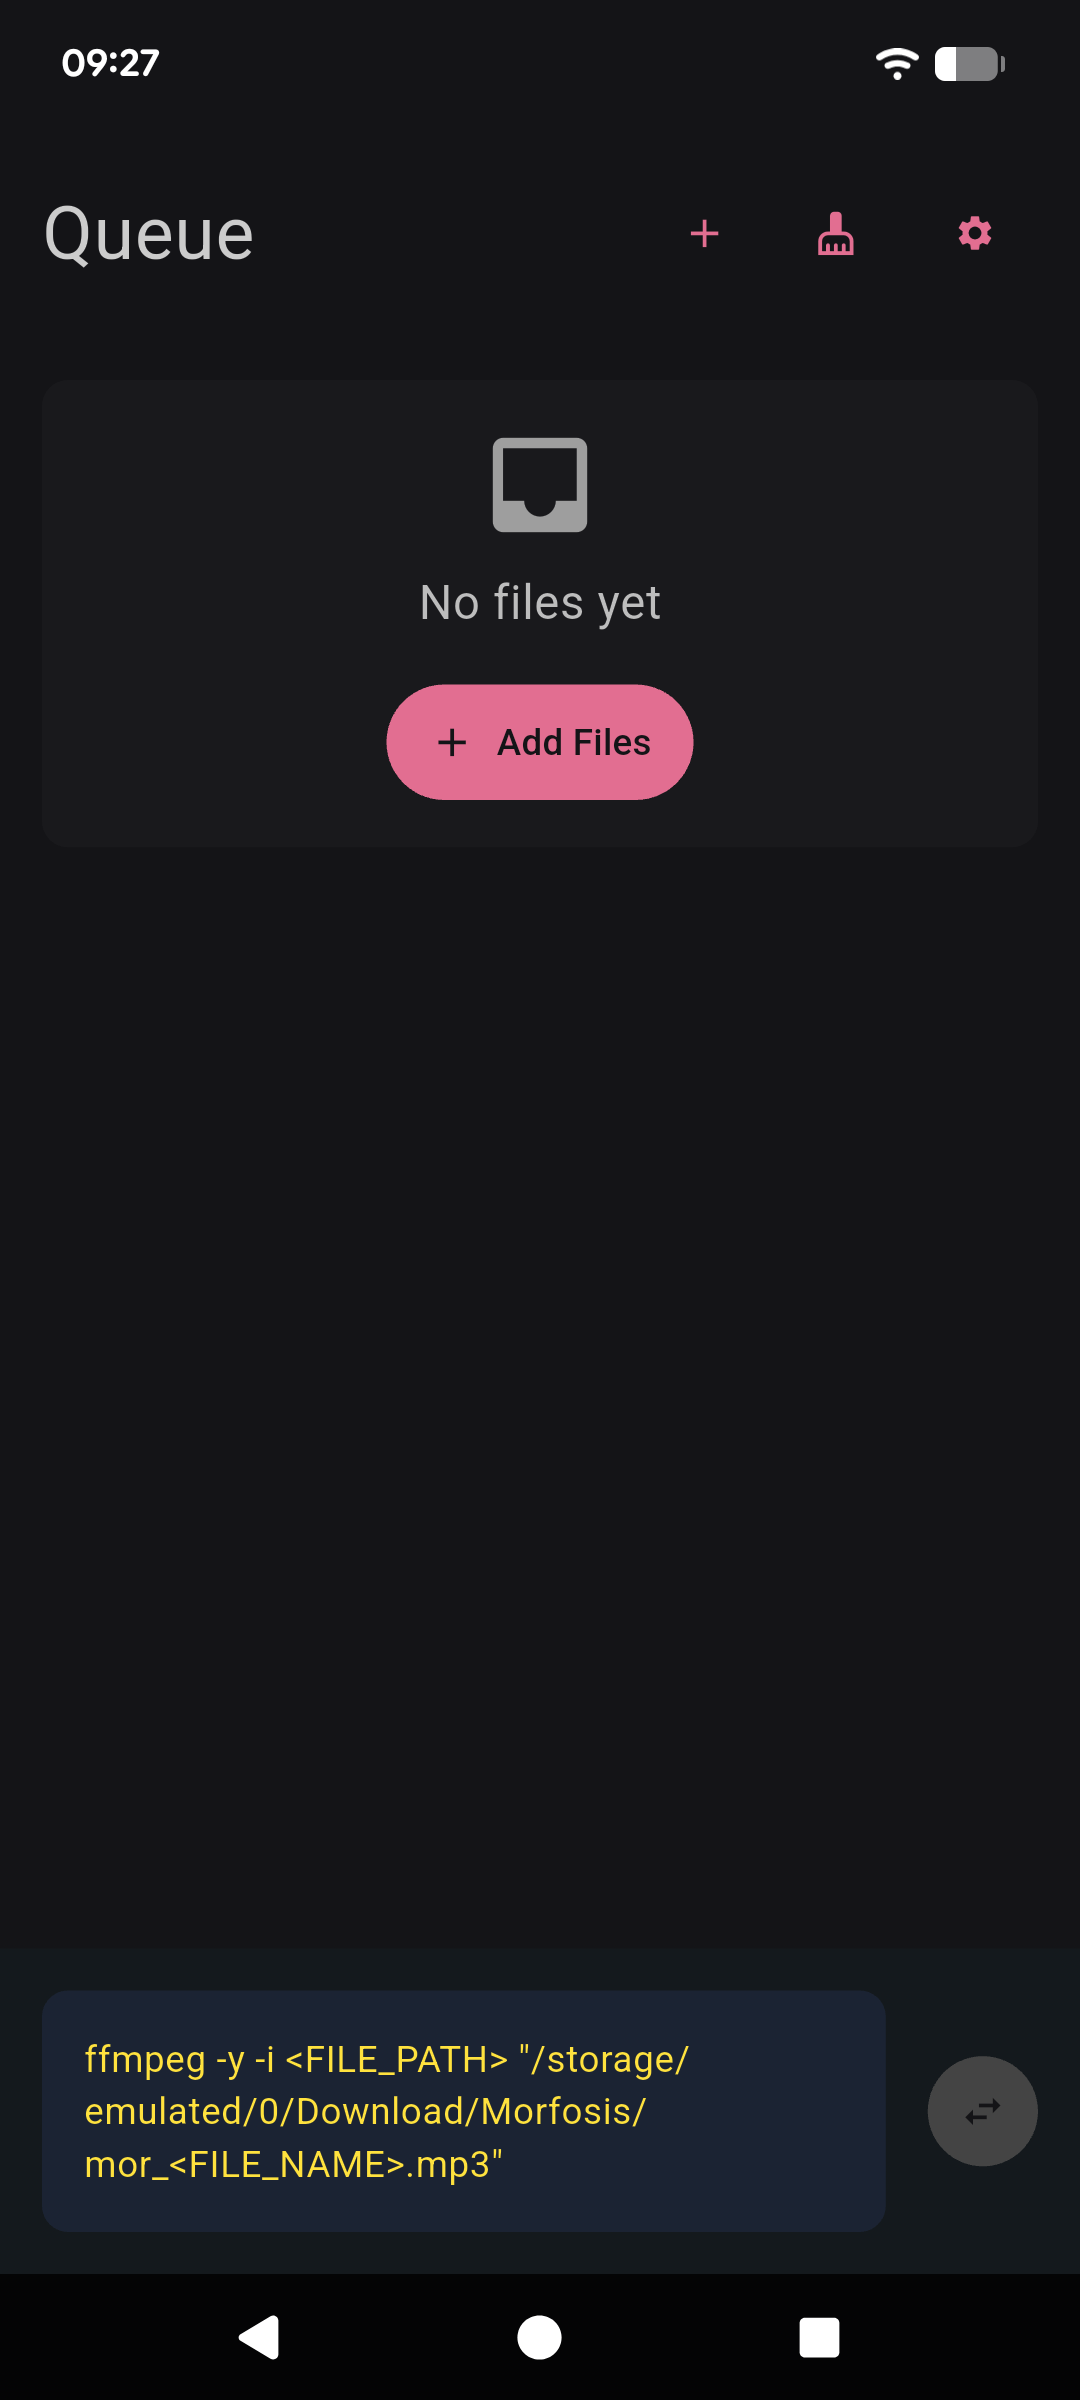
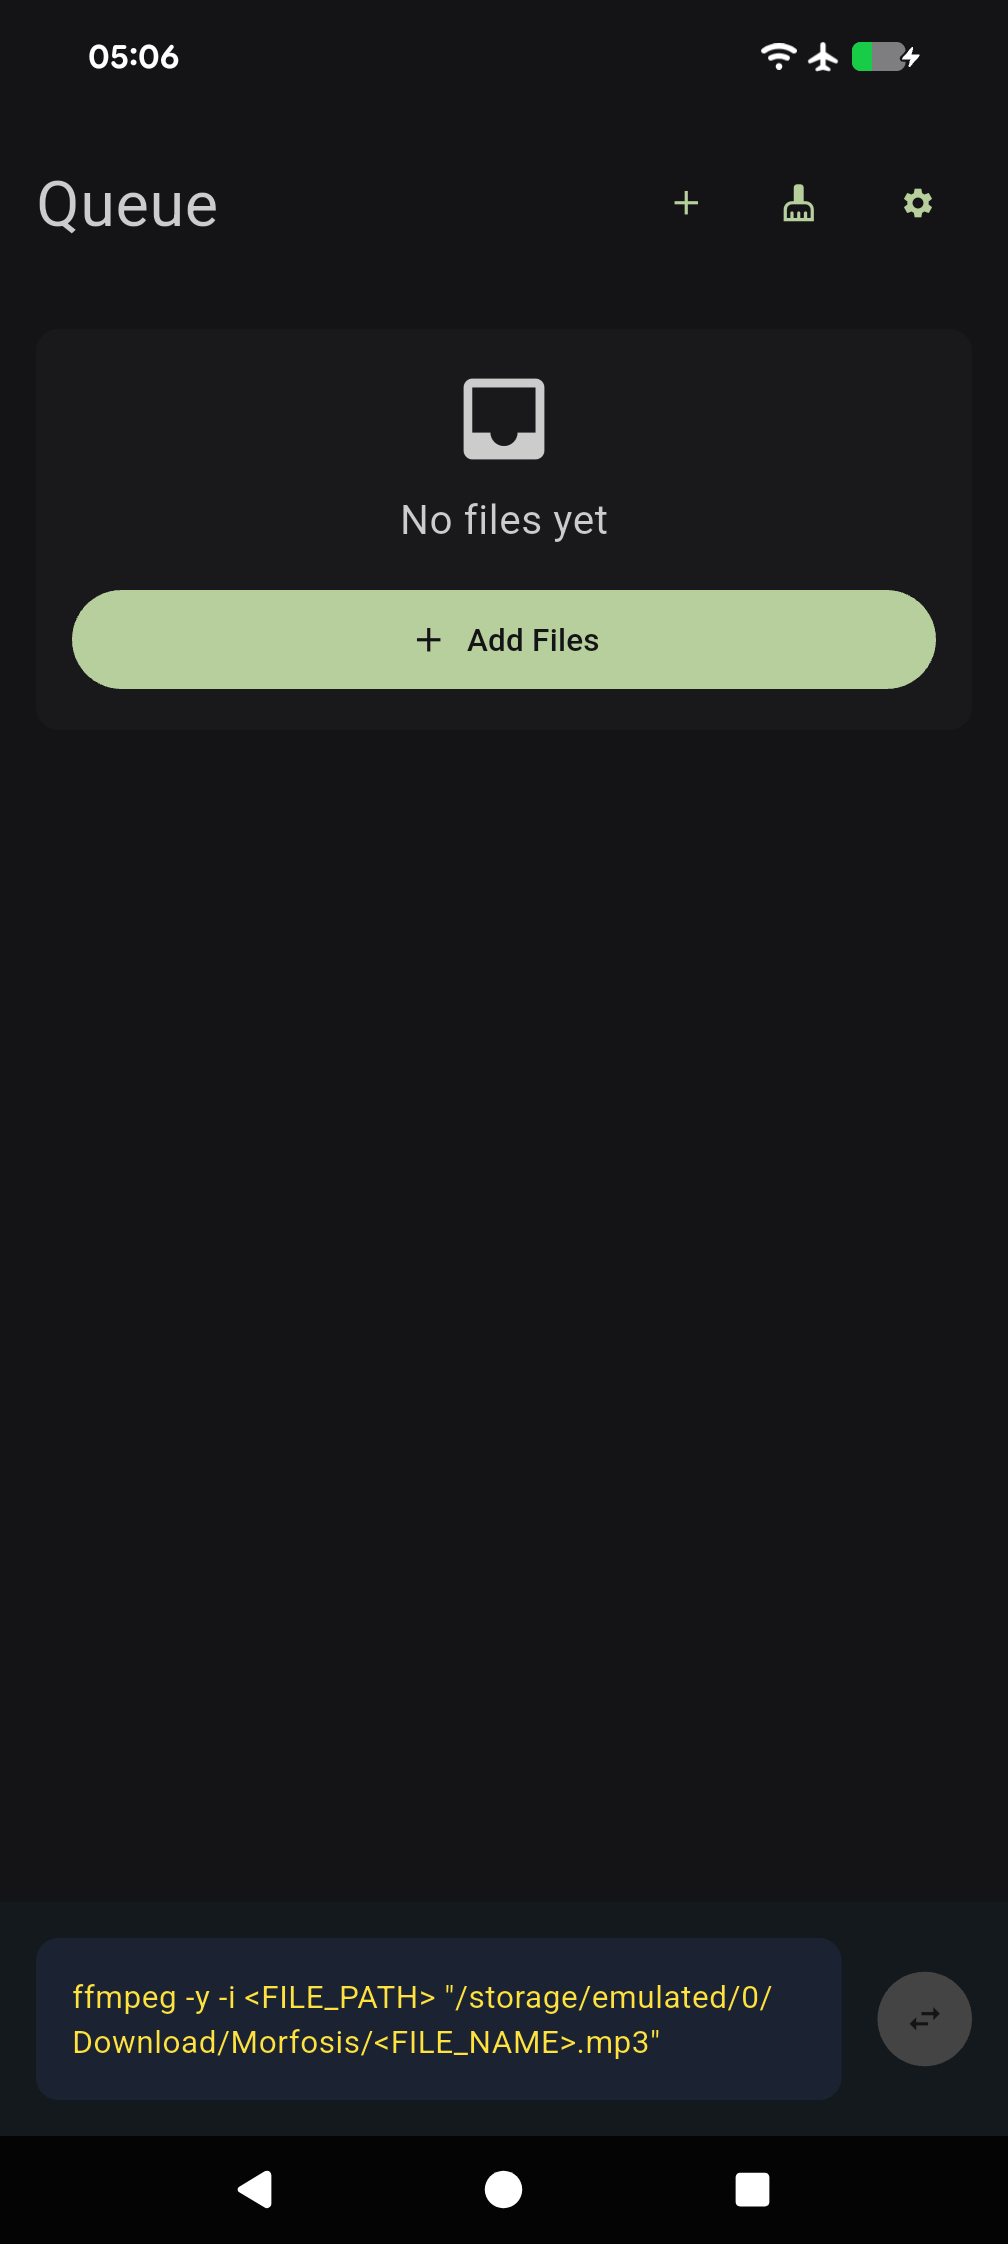
expanding the buttons area
- updating screenshots

diff --git a/lib/widgets/link.dart b/lib/widgets/link.dart
@@ -25,16 +25,21 @@ class CustomLink extends StatelessWidget {
   Widget build(BuildContext context) {
     final colors = ColorsProvider.of(context);
 
-    return TextButton.icon(
-      onPressed: _launchURL,
-      style: TextButton.styleFrom(
-        backgroundColor: colors.secondary,
-        foregroundColor: colors.background,
-        padding: const EdgeInsets.symmetric(horizontal: 16, vertical: 12),
-        shape: RoundedRectangleBorder(borderRadius: BorderRadius.circular(25)),
+    return SizedBox(
+      width: double.infinity,
+      child: TextButton.icon(
+        onPressed: _launchURL,
+        style: TextButton.styleFrom(
+          backgroundColor: colors.secondary,
+          foregroundColor: colors.background,
+          padding: const EdgeInsets.symmetric(horizontal: 16, vertical: 12),
+          shape: RoundedRectangleBorder(
+            borderRadius: BorderRadius.circular(25),
+          ),
+        ),
+        icon: Icon(icon, size: 22, color: colors.background),
+        label: Text(label),
       ),
-      icon: Icon(icon, size: 22, color: colors.background),
-      label: Text(label),
     );
   }
 }

diff --git a/lib/widgets/button.dart b/lib/widgets/button.dart
@@ -45,16 +45,21 @@ class CustomBtnBase extends StatelessWidget {
       );
     }
 
-    return TextButton.icon(
-      style: TextButton.styleFrom(
-        backgroundColor: isPrimary ? colors.primary : Colors.transparent,
-        foregroundColor: isPrimary ? colors.background : colors.primary,
-        padding: const EdgeInsets.symmetric(horizontal: 16, vertical: 12),
-        shape: RoundedRectangleBorder(borderRadius: BorderRadius.circular(25)),
+    return SizedBox(
+      width: double.infinity,
+      child: TextButton.icon(
+        style: TextButton.styleFrom(
+          backgroundColor: isPrimary ? colors.primary : Colors.transparent,
+          foregroundColor: isPrimary ? colors.background : colors.primary,
+          padding: const EdgeInsets.symmetric(horizontal: 16, vertical: 12),
+          shape: RoundedRectangleBorder(
+            borderRadius: BorderRadius.circular(25),
+          ),
+        ),
+        onPressed: action,
+        icon: glyph,
+        label: Text(label!),
       ),
-      onPressed: action,
-      icon: glyph,
-      label: Text(label!),
     );
   }
 }

diff --git a/readme.md b/readme.md
@@ -12,18 +12,20 @@ Powered by **FFmpeg**, Morfosis lets you convert **audio and video files** betwe
 <a href="https://github.com/jmiguelrivas/morfosis/actions"><img alt="Build Status" src="https://github.com/jmiguelrivas/morfosis/actions/workflows/test.yml/badge.svg?branch=main&event=push"></a>
 </p>
 
----
+## • Screenshots
 
-## 🔐 Permissions
+| Queue (Empty) | Queue | Settings | About |
+|---------------|-------|----------|-------|
+| ![Queue Empty](fastlane/metadata/android/en-US/images/phoneScreenshots/1.png) | ![Queue](fastlane/metadata/android/en-US/images/phoneScreenshots/2.png) | ![Settings](fastlane/metadata/android/en-US/images/phoneScreenshots/3.png) | ![About](fastlane/metadata/android/en-US/images/phoneScreenshots/4.png) |
+
+## • Permissions
 
 Morfosis needs the following permissions:
 
 * **Device Storage / Gallery** – to pick and access your media files
 * **Notifications** – to show when batch conversions start and finish
 
----
-
-## 🎥 Supported Video Formats & Codecs
+## • Supported Video Formats & Codecs
 
 | Format | Description                                  | Codecs                          |
 | ------ | -------------------------------------------- | ------------------------------- |
@@ -36,9 +38,7 @@ Morfosis needs the following permissions:
 | 3gp    | Mobile-friendly, legacy phones               | mpeg4, h263      |
 | 3g2    | 3GPP2 format, CDMA networks                  | mpeg4, h263      |
 
----
-
-## 🎵 Supported Audio Formats & Codecs
+## • Supported Audio Formats & Codecs
 
 | Format | Description                     | Codecs                                        |
 | ------ | ------------------------------- | --------------------------------------------- |
@@ -56,15 +56,12 @@ Morfosis needs the following permissions:
 | 3gp    | Mobile legacy container         | aac, libopencore_amrnb, amr_wb |
 | 3g2    | CDMA legacy container           | aac, libopencore_amrnb, amr_wb |
 
----
 
-## 📦 Installation from source
+## • Installation from source
 
 See the [Installation guide](installation.md) for setup instructions.
 
----
-
-## 🧾 License
+## • License
 
 [![GNU GPLv3 Image](https://www.gnu.org/graphics/gplv3-127x51.png)](https://www.gnu.org/licenses/gpl-3.0.en.html)
 
